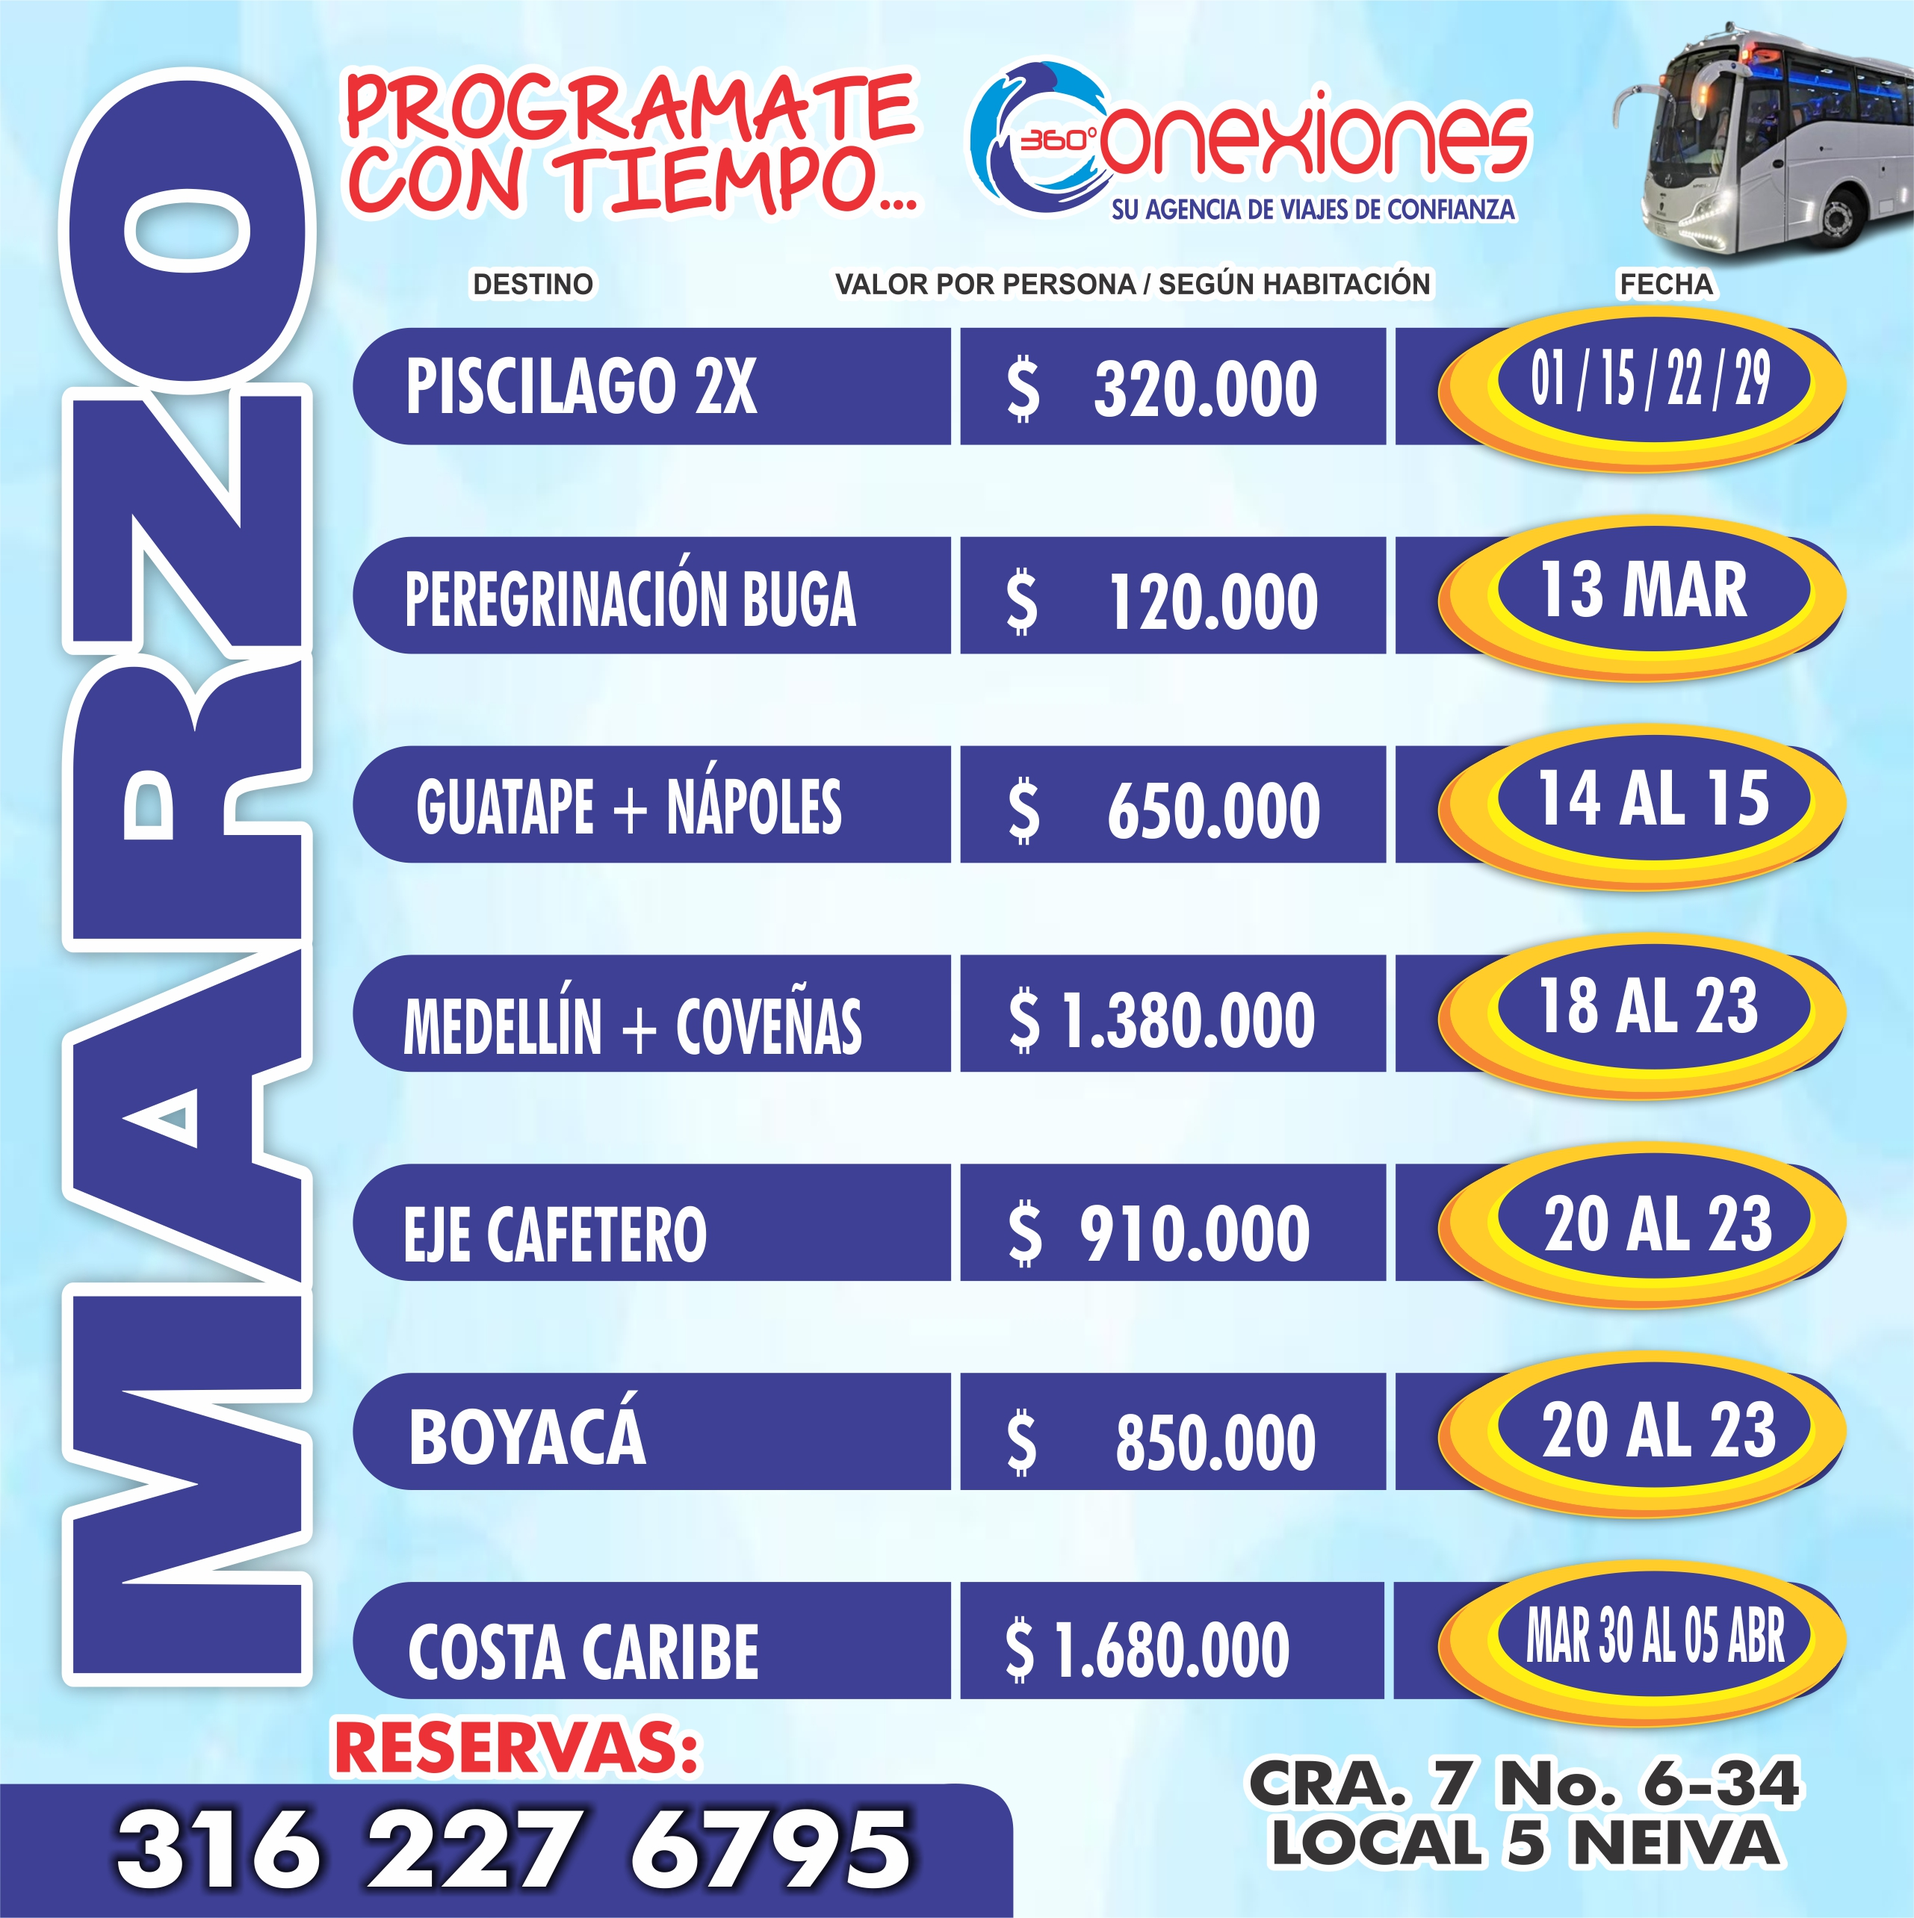
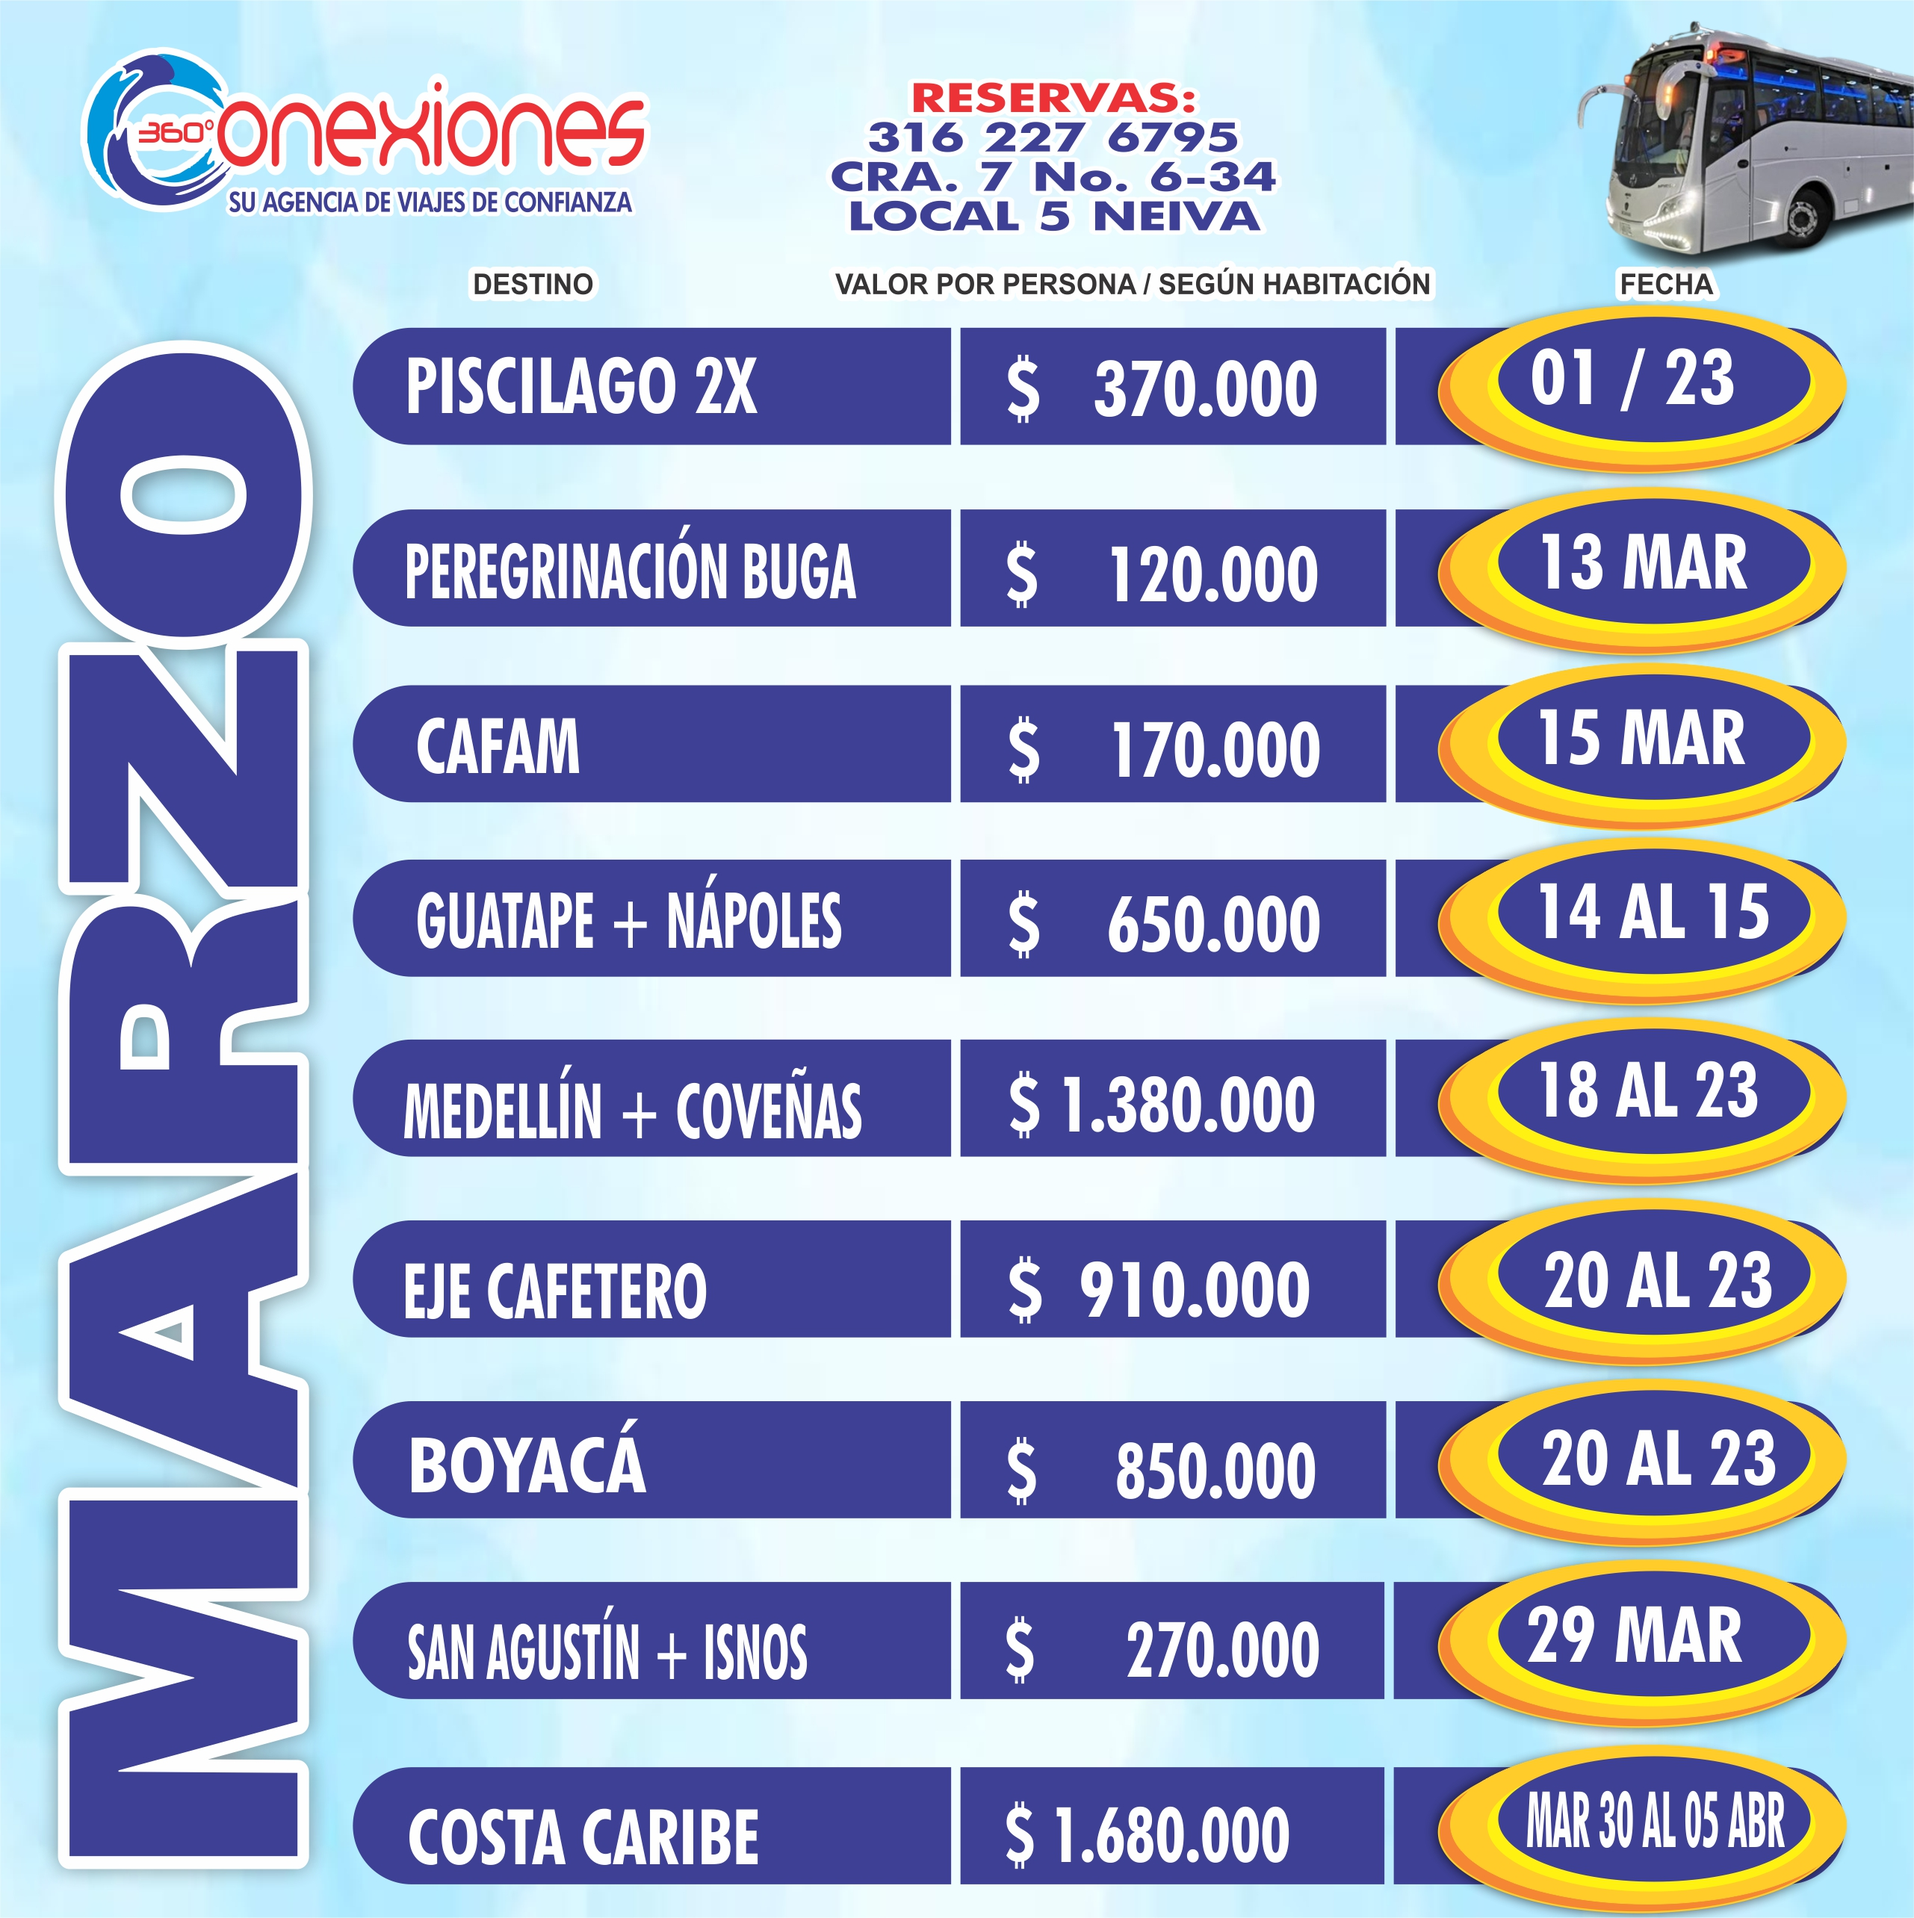
marzo correcciones v200226

diff --git a/src/data/flyers/flyers.ts b/src/data/flyers/flyers.ts
@@ -258,11 +258,9 @@ export const flyers: FlyerPlan[] = [
     titulo: "Piscilago Pasadía 2X",
     fechas: [
       "Marzo 1",
-      "Marzo 15",
-      "Marzo 22",
-      "Marzo 29",
+      "Marzo 23",
     ],
-    precio: 320000,
+    precio: 370000,
     imagen: "/Marzo2026/piscilago.jpg",
     whatsappBase:
       "Hola Conexiones360, quiero información del plan Piscilago",
@@ -277,6 +275,17 @@ export const flyers: FlyerPlan[] = [
     imagen: "/Marzo2026/buga.jpg",
     whatsappBase:
       "Hola Conexiones360, quiero información del plan Peregrinación Buga",
+  },
+            {
+    id: "cafam-marzo",
+    mes: "marzo",
+    tipo: "terrestre",
+    titulo: "Cafam Melgar",
+    fechas: ["Marzo 15"],
+    precio: 170000,
+    imagen: "/Marzo2026/cafam.jpg",
+    whatsappBase:
+      "Hola Conexiones360, quiero información del plan Cafam Melgar",
   },
             {
     id: "haciendanapoles-marzo",
@@ -321,6 +330,17 @@ export const flyers: FlyerPlan[] = [
     imagen: "/Marzo2026/boyaca.jpg",
     whatsappBase:
       "Hola Conexiones360, quiero información del plan Boyacá",
+  },
+            {
+    id: "sanagustin-marzo",
+    mes: "marzo",
+    tipo: "terrestre",
+    titulo: "San Agustín + Isnos",
+    fechas: ["Marzo 29"],
+    precio: 270000,
+    imagen: "/Marzo2026/sanagustin.jpg",
+    whatsappBase:
+      "Hola Conexiones360, quiero información del plan San Agustín",
   },
           {
     id: "costacaribec-marzo",
